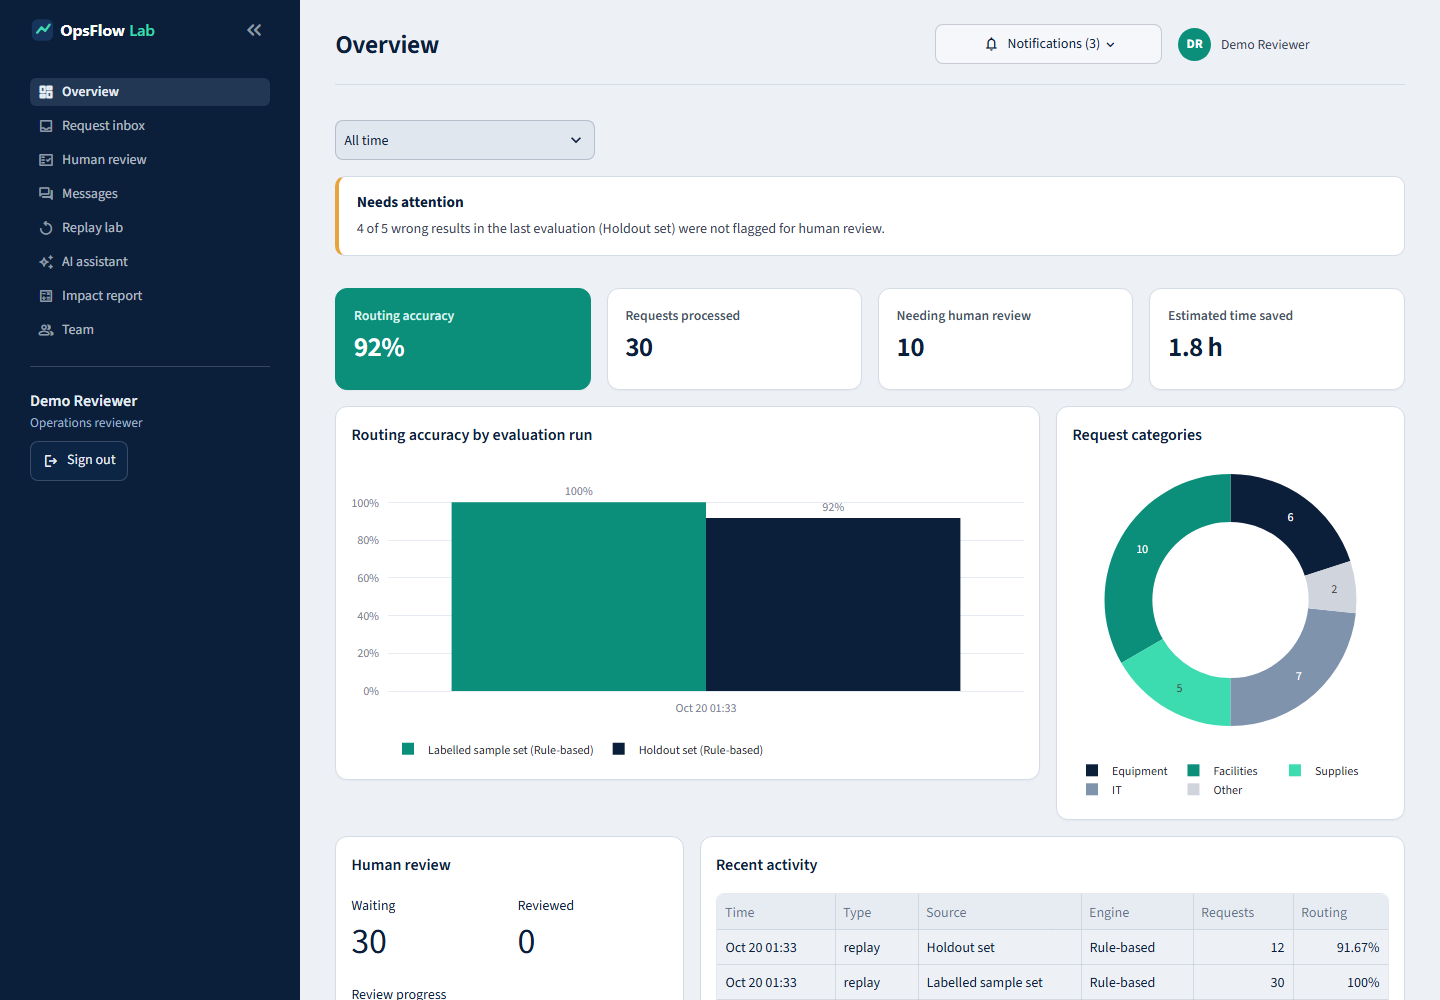
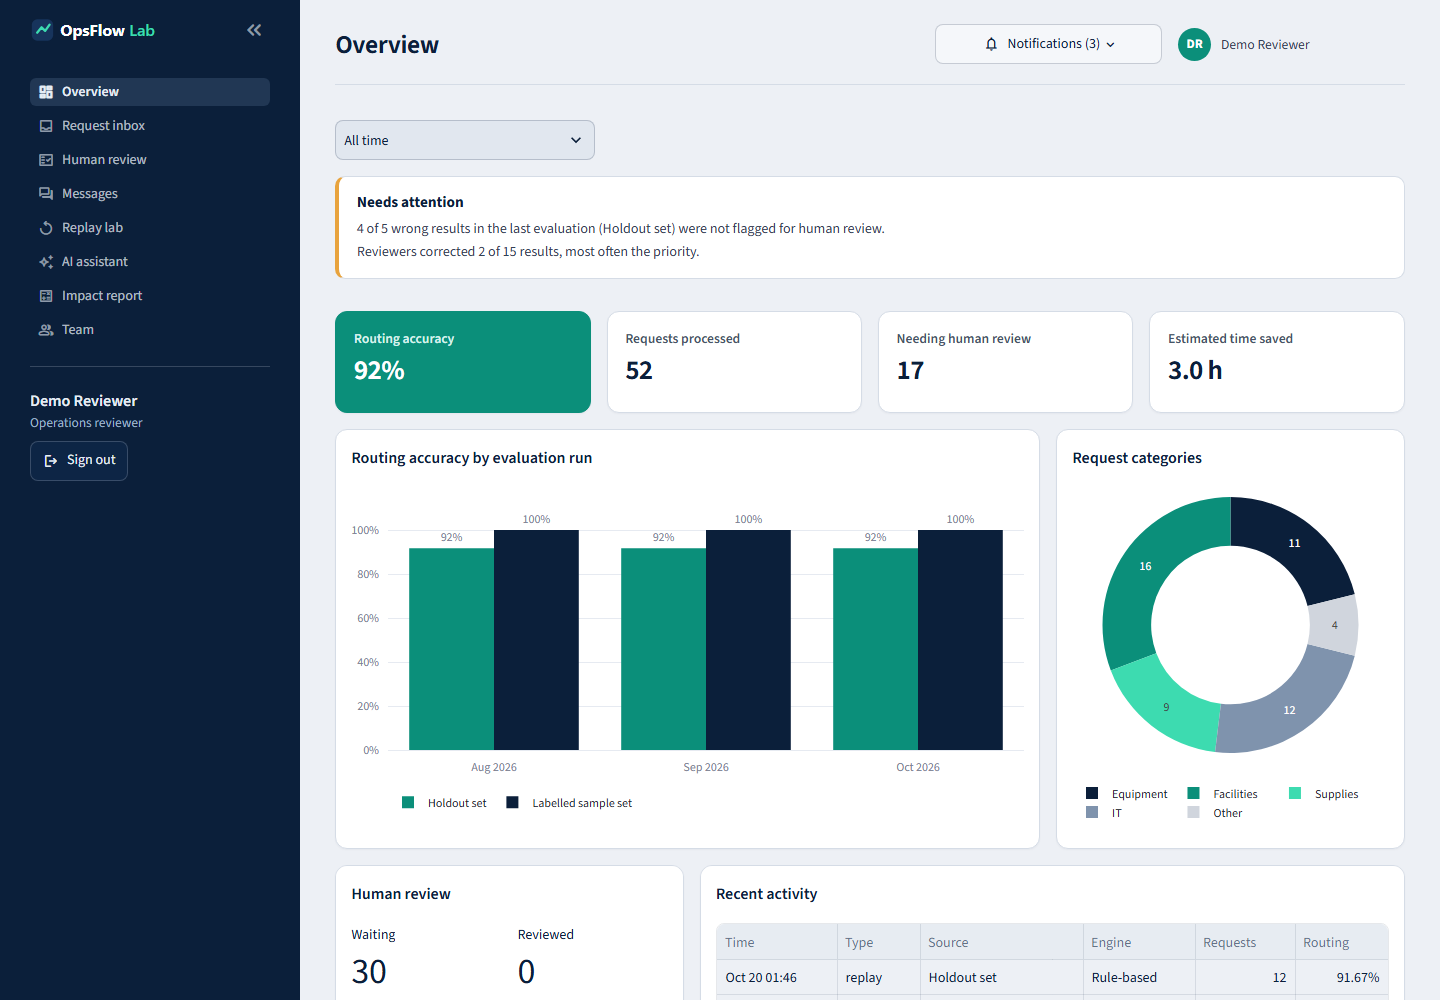
Add dated demo history, month filters on Overview and Messages, and equal-height cards

diff --git a/app_pages/overview.py b/app_pages/overview.py
@@ -19,7 +19,8 @@ ui.page_header("Overview", f"{_greeting}, {st.session_state['user']['name'].spli
 
 pick, _ = st.columns([1, 3])
 with pick:
-    month_label = st.selectbox("Period", ["All time", *storage.months()], key="overview_month", label_visibility="collapsed")
+    month_label = st.selectbox("Period", ["All time", *storage.months()], key="overview_month",
+                               label_visibility="collapsed", format_func=lambda m: m if m == "All time" else ui.month_label(m))
 month = None if month_label == "All time" else month_label
 processed = storage.processed()
 if month:
@@ -57,28 +58,31 @@ ui.kpi_cards([
 # ---- charts ----
 left, right = st.columns([2, 1], gap="small")
 with left:
-    with ui.card("accuracy_trend"):
+    with ui.card("accuracy_trend", height=420):
         st.markdown("**Routing accuracy by evaluation run**")
-        runs = storage.runs(limit=200, month=month)
+        runs = storage.runs(limit=500, month=month)
         runs = runs[(runs["run_type"] == "replay") & runs["metrics_json"].notna()].copy()
         if runs.empty:
             st.caption("No evaluation runs yet.")
         else:
             runs["Routing accuracy"] = runs["metrics_json"].apply(lambda j: json.loads(j)["routing_accuracy"])
-            runs["Run time"] = pd.to_datetime(runs["created_at"]).dt.strftime("%b %d %H:%M")
-            runs["Dataset"] = runs["dataset"] + " (" + runs["engine"].map(ui.engine_short) + ")"
-            fig = px.bar(runs.iloc[::-1], x="Run time", y="Routing accuracy", color="Dataset", barmode="group",
-                         text=runs.iloc[::-1]["Routing accuracy"].map(lambda v: f"{v:.0%}"),
-                         color_discrete_sequence=[ui.MINT_DARK, ui.NAVY, ui.GREY])
-            fig.update_xaxes(type="category")
+            runs["Month"] = pd.to_datetime(runs["created_at"]).dt.strftime("%b %Y")
+            runs["Month order"] = pd.to_datetime(runs["created_at"]).dt.strftime("%Y-%m")
+            runs["Test set"] = runs["dataset"]
+            latest_per = (runs.sort_values("created_at").groupby(["Month order", "Month", "Test set"], as_index=False).last()
+                          .sort_values("Month order"))
+            fig = px.bar(latest_per, x="Month", y="Routing accuracy", color="Test set", barmode="group",
+                         text=latest_per["Routing accuracy"].map(lambda v: f"{v:.0%}"),
+                         color_discrete_sequence=[ui.MINT_DARK, ui.NAVY])
+            fig.update_xaxes(categoryorder="array", categoryarray=list(dict.fromkeys(latest_per["Month"])))
             fig.update_traces(textposition="outside", cliponaxis=False)
-            fig.update_layout(height=300, margin=dict(l=0, r=0, t=10, b=0),
+            fig.update_layout(height=330, margin=dict(l=0, r=0, t=10, b=0),
                               yaxis=dict(range=[0, 1.15], tickformat=".0%", title=None), xaxis=dict(title=None),
-                              legend=dict(orientation="h", y=-0.2, title=None),
+                              legend=dict(orientation="h", y=-0.15, title=None),
                               plot_bgcolor="rgba(0,0,0,0)", paper_bgcolor="rgba(0,0,0,0)")
             st.plotly_chart(fig, width="stretch")
 with right:
-    with ui.card("categories"):
+    with ui.card("categories", height=420):
         st.markdown("**Request categories**")
         if n_processed:
             counts, source = processed["category"].value_counts(), "Processed requests"
@@ -88,14 +92,14 @@ with right:
         fig = px.pie(frame[frame["Requests"] > 0], names="Category", values="Requests", hole=0.62, color="Category",
                      color_discrete_map=dict(zip(CATEGORIES, [ui.NAVY, ui.MINT_DARK, "#3DDBB0", "#7F93AD", "#D0D5DD"])))
         fig.update_traces(textinfo="value", sort=False)
-        fig.update_layout(height=340, margin=dict(l=0, r=0, t=10, b=0), legend=dict(orientation="h", y=-0.12, yanchor="top"),
+        fig.update_layout(height=340, margin=dict(l=0, r=0, t=10, b=0), legend=dict(orientation="h", y=-0.1, yanchor="top"),
                           paper_bgcolor="rgba(0,0,0,0)")
         st.plotly_chart(fig, width="stretch")
 
 # ---- feedback + activity ----
 fb, act = st.columns([1, 2], gap="small")
 with fb:
-    with ui.card("feedback"):
+    with ui.card("feedback", height=300):
         st.markdown("**Human review**")
         stat_values = list(st.session_state.get("status", {}).values())
         waiting = stat_values.count("Ready for review")
@@ -114,7 +118,7 @@ with fb:
             if st.button("Start reviewing", type="primary", key="start_review"):
                 st.switch_page("app_pages/review.py")
 with act:
-    with ui.card("activity"):
+    with ui.card("activity", height=300):
         st.markdown("**Recent activity**")
         recent = storage.runs(limit=12, month=month)
         if recent.empty:

diff --git a/src/ui_common.py b/src/ui_common.py
@@ -100,6 +100,55 @@ def inject_css() -> None:
     st.html(_CSS)
 
 
+def month_label(month: str) -> str:
+    """'2026-09' -> 'September 2026'."""
+    import datetime as dt
+
+    return dt.datetime.strptime(month, "%Y-%m").strftime("%B %Y")
+
+
+def _bootstrap_history(storage: Storage, items: list[dict]) -> None:
+    """Demo history for the two previous months, produced by running the real workflow on slices of the sample queue
+    and dating the records in those months. It exists so the month filters have something to show; it is not real usage."""
+    import datetime as dt
+
+    from .evaluation import evaluate
+
+    today = dt.date.today().replace(day=1)
+    reviewers = ["Demo Reviewer", "Maria Keller", "Sam Ortiz"]
+    teams_by_name = {"Demo Reviewer": "Operations reviewer", "Maria Keller": "Operations lead", "Sam Ortiz": "AI analyst"}
+    del teams_by_name  # roles live on the accounts; only names are needed here
+    slices = {1: (0, 12, 9), 2: (12, 22, 6)}  # months back -> (start, stop, share of results that get reviewed)
+    for back, (start, stop, reviewed) in slices.items():
+        month = today
+        for _ in range(back):
+            month = (month - dt.timedelta(days=1)).replace(day=1)
+        def stamp(day: int, hour: int = 10) -> str:
+            return f"{month:%Y-%m}-{day:02d}T{hour:02d}:15:00+00:00"
+
+        chunk = items[start:stop]
+        results = []
+        for n, item in enumerate(chunk):
+            res = run_triage(item["request_id"], item["text"], item["requester"] or None)
+            results.append(res.model_copy(update={"processed_at": stamp(3 + n % 20)}))
+        run_id = storage.save_run("inbox", RULES_ENGINE, "sample", results=results, at=stamp(3))
+        for n, res in enumerate(results[:reviewed]):
+            final = {"category": res.category, "priority": res.priority, "team": res.team}
+            if n % 5 == 4:  # a reviewer changes about one in five priorities
+                final["priority"] = "Urgent" if res.priority != "Urgent" else "High"
+            storage.save_review(res, final, run_id=run_id, reviewer=reviewers[n % 3], at=stamp(4 + n % 20, 14))
+        for name, data in (("Labelled sample set", sample_data()), ("Holdout set", holdout_data())):
+            run = evaluate(data, lambda i, t, q: run_triage(i, t, q), dataset=name, engine=RULES_ENGINE)
+            storage.save_run("replay", RULES_ENGINE, name, n_requests=run.metrics["n"],
+                             n_flagged=run.metrics["review_flagged"], metrics=run.metrics, at=stamp(20, 16))
+        for res in results:
+            if res.priority == "Urgent":
+                storage.send_message("OpsFlow workflow", res.team, f"Urgent {res.category.lower()} request {res.request_id}",
+                                     f"{res.summary}\n\n{res.review_reason}", "Urgent", res.request_id, at=stamp(5, 9))
+        storage.send_message(reviewers[1], "All teams", "Weekly queue check", "Please clear flagged requests by Friday.",
+                             at=stamp(10, 8))
+
+
 def _bootstrap(storage: Storage, items: list[dict]) -> None:
     """First launch only: run the real rule-based workflow on the sample queue and both labelled sets."""
     from .evaluation import evaluate
@@ -130,6 +179,7 @@ def load_workspace() -> None:
         for item in items:
             storage.upsert_request(item)
     if config.autoseed() and not config.llm_available() and storage.runs(limit=1).empty:
+        _bootstrap_history(storage, items)
         _bootstrap(storage, items)
     results, run_ids, status = storage.load_results()
     st.session_state.queue = items
@@ -212,9 +262,9 @@ def section_label(text: str) -> None:
     st.markdown(f'<p class="ops-section">{text}</p>', unsafe_allow_html=True)
 
 
-def card(name: str):
-    """A white bordered card for charts and tables."""
-    return st.container(border=True, key=f"card_{name}")
+def card(name: str, height: int | None = None):
+    """A white bordered card for charts and tables. Give a height to line neighbouring cards up."""
+    return st.container(border=True, key=f"card_{name}", height=height or "content")
 
 
 _ICONS = {

diff --git a/src/storage.py b/src/storage.py
@@ -181,7 +181,7 @@ class Storage:
 
     # ---- internal messages (stored locally; nothing is emailed or sent to an external system) ----
     def send_message(self, sender: str, recipient: str, subject: str, body: str,
-                     priority: str = "Normal", request_id: Optional[str] = None) -> str:
+                     priority: str = "Normal", request_id: Optional[str] = None, at: Optional[str] = None) -> str:
         if recipient != "All teams" and recipient not in TEAMS:
             raise ValueError("Choose a team or 'All teams'.")
         if priority not in ("Normal", "Urgent"):
@@ -191,7 +191,7 @@ class Storage:
         message_id = _new_id("msg")
         with self._connect() as conn:
             conn.execute("INSERT INTO messages VALUES (?,?,?,?,?,?,?,?)",
-                         (message_id, _now(), sender.strip()[:60], recipient, priority,
+                         (message_id, at or _now(), sender.strip()[:60], recipient, priority,
                           subject.strip()[:120], body.strip()[:2000], request_id))
         return message_id
 
@@ -222,6 +222,7 @@ class Storage:
         n_requests: Optional[int] = None,
         n_flagged: Optional[int] = None,
         metrics: Optional[dict] = None,
+        at: Optional[str] = None,
     ) -> str:
         """Record one processing run (and, for inbox runs, per-request labels). Returns run_id."""
         if run_type not in ("inbox", "replay"):
@@ -232,7 +233,7 @@ class Storage:
         with self._connect() as conn:
             conn.execute(
                 "INSERT INTO runs VALUES (?,?,?,?,?,?,?,?)",
-                (run_id, run_type, dataset, engine, _now(), n, int(flagged),
+                (run_id, run_type, dataset, engine, at or _now(), n, int(flagged),
                  json.dumps(metrics) if metrics is not None else None),
             )
             conn.executemany(
@@ -250,6 +251,7 @@ class Storage:
         run_id: Optional[str] = None,
         note: str = "",
         reviewer: str = "",
+        at: Optional[str] = None,
     ) -> str:
         """Store a reviewer decision. 'approved' if nothing changed, otherwise 'corrected'."""
         allowed = {"category": CATEGORIES, "priority": PRIORITIES, "team": TEAMS}
@@ -261,7 +263,7 @@ class Storage:
         with self._connect() as conn:
             conn.execute(
                 "INSERT INTO reviews VALUES (?,?,?,?,?,?,?,?,?,?,?,?,?,?,?)",
-                (review_id, run_id, result.request_id, result.engine, _now(),
+                (review_id, run_id, result.request_id, result.engine, at or _now(),
                  "corrected" if changed else "approved",
                  result.category, result.priority, result.team,
                  final["category"], final["priority"], final["team"],

diff --git a/app_pages/messages.py b/app_pages/messages.py
@@ -54,11 +54,15 @@ with compose, ui.card("compose"):
         st.success("Message sent.")
 
 with feed, ui.card("feed"):
-    f1, f2 = st.columns([1, 1], vertical_alignment="center")
+    f1, f2, f3 = st.columns([1, 1, 1], vertical_alignment="center")
     view_mode = f1.segmented_control("View", ["All", "Sent by me"], default="All", key="msg_view",
                                      label_visibility="collapsed") or "All"
     team = f2.selectbox("Team", ["All teams", *TEAMS], label_visibility="collapsed", key="msg_filter")
-    inbox = storage.messages(None if team == "All teams" else team)
+    month_pick = f3.selectbox("Month", ["All time", *storage.months()], label_visibility="collapsed", key="msg_month",
+                              format_func=lambda m: m if m == "All time" else ui.month_label(m))
+    inbox = storage.messages(None if team == "All teams" else team, limit=500)
+    if month_pick != "All time":
+        inbox = inbox[inbox["created_at"].str.startswith(month_pick)]
     if view_mode == "Sent by me":
         inbox = inbox[inbox["sender"] == user["name"]]
     inbox = inbox.reset_index(drop=True)

diff --git a/tests/test_storage.py b/tests/test_storage.py
@@ -73,3 +73,14 @@ def test_empty_database_summary(storage):
 def test_bad_run_type_rejected(storage):
     with pytest.raises(ValueError):
         storage.save_run("other", "e", "d")
+
+
+def test_records_can_be_dated_for_month_filters(storage, result):
+    run_id = storage.save_run("inbox", "e", "sample", results=[result], at="2026-09-03T10:00:00+00:00")
+    storage.save_review(result, {"category": result.category, "priority": result.priority, "team": result.team},
+                        run_id=run_id, reviewer="Ann", at="2026-09-04T10:00:00+00:00")
+    storage.send_message("Ann", "All teams", "Hi", "Hello.", at="2026-08-01T09:00:00+00:00")
+    assert storage.months() == ["2026-09"]
+    assert len(storage.runs(month="2026-09")) == 1 and storage.runs(month="2026-10").empty
+    assert storage.review_summary("2026-09")["total"] == 1 and storage.review_summary("2026-10")["total"] == 0
+    assert storage.messages().iloc[0]["created_at"].startswith("2026-08")

diff --git a/tests/test_app_smoke.py b/tests/test_app_smoke.py
@@ -138,7 +138,7 @@ def test_first_launch_fills_every_page_with_real_output(tmp_path, monkeypatch):
     at.run()
     assert len(at.session_state["results"]) == 30
     storage = ui_common.get_storage()
-    assert len(storage.runs(limit=10)) == 3 and not storage.messages().empty
+    assert len(storage.runs(limit=50)) == 9 and len(storage.months()) == 3 and not storage.messages().empty
     for page in PAGES:
         at.switch_page(page).run()
         assert not at.exception, page

diff --git a/README.md b/README.md
@@ -17,6 +17,7 @@ Staff read each request by hand: a broken infusion pump, a ceiling leak, a suppl
 - **Lets a person decide.** On the Human review page you approve a result or change the category, priority or team. Each decision is saved with your name.
 - **Measures errors.** The Replay lab runs the workflow on requests with known correct answers and lists every wrong result, including wrong ones that were not flagged.
 - **Sends team messages.** You can write a message to one team or to everyone, or draft it from an urgent request. Messages stay inside the app; nothing is emailed.
+- **Filters by month.** Overview and Messages can be limited to one month.
 - **Estimates impact.** You enter weekly volume, minutes per request and costs, and it calculates hours and euros per week. These are estimates from your inputs.
 
 Nothing is sent to any outside system, and nothing happens without a person.
@@ -52,7 +53,7 @@ streamlit run app.py
 
 Sign in with the prefilled demo account: `demo@opsflow.lab`, password `opsflow-demo-2026`. You can change them with `OPSFLOW_DEMO_EMAIL` and `OPSFLOW_DEMO_PASSWORD`. This is a demo login, not real security. Passwords are stored as salted hashes in the local database, and there is no sign-up.
 
-On first start, the app sorts the 30 sample requests and runs both test sets, so every page has results. Set `OPSFLOW_AUTOSEED=0` to turn this off.
+On first start, the app sorts the 30 sample requests and runs both test sets, so every page has results. It also adds **demo history** for the two previous months: the same workflow is run on slices of the sample requests and the records are dated in those months, so the month filters on Overview and Messages have something to show. This history is made up for the demo and is not real usage. Because the rules never change, each month's test accuracy is the same. Set `OPSFLOW_AUTOSEED=0` to turn all of this off.
 
 Run the tests:
 
